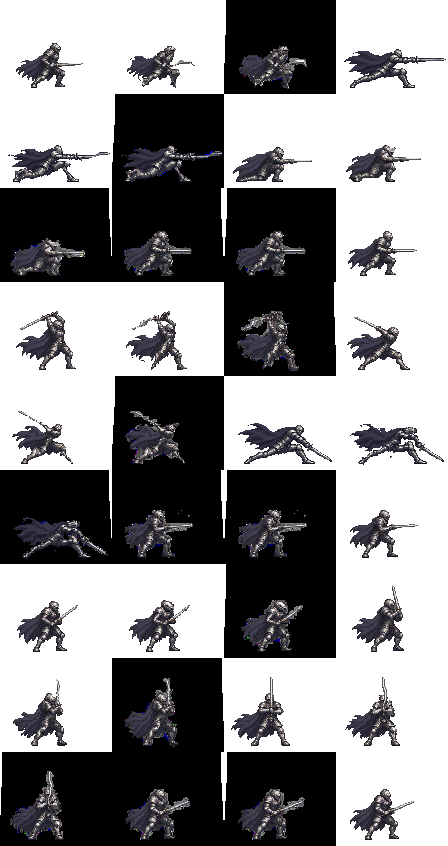
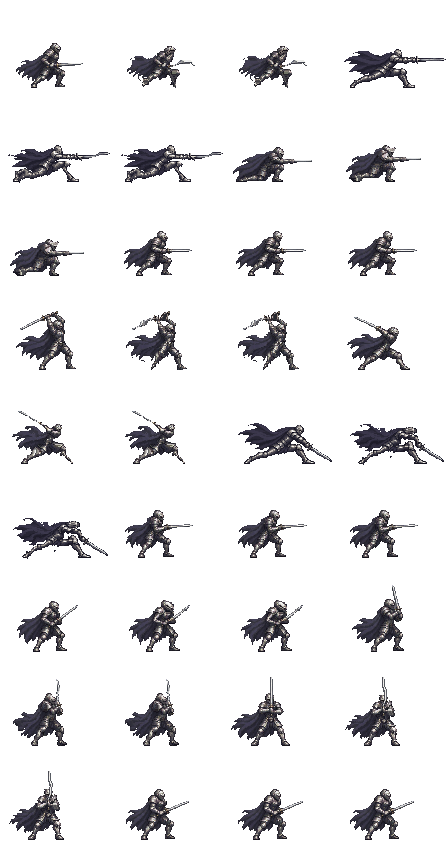
Restore transparent alpha in fifteen knight skill frames and block obsolete raster warp bake

diff --git a/Tools/bake_knight_skill_12.py b/Tools/bake_knight_skill_12.py
@@ -58,4 +58,9 @@ def bake():
     print("Wrote 448x846, 4 columns, 9 rows, 12 poses per skill:",OUT)
 
 if __name__=="__main__":
-    bake()
+    raise SystemExit(
+        "DEPRECATED by AGENTS.md: raster-warp skill generator is not an approved "
+        "hand-authored animation source. The 2026-11-06 alpha repair was applied "
+        "to the game PNG, but the motion poses still require individually drawn "
+        "pixel-level corrections. Do not auto-overwrite the asset."
+    )

diff --git a/Art/knight/skill/README.md b/Art/knight/skill/README.md
@@ -63,3 +63,27 @@ verify naturalness and must not be equated with game/device testing.
 update; this does not silently revert or fix it. No owner tests, local game build,
 APK build, or GitHub Actions have been executed. Owner device acceptance remains
 required.
+
+## 2026-11-06 alpha restoration (technical repair, not art approval)
+
+The 4×9 actor atlas previously contained fifteen opaque rectangular padding
+artifacts. The restored game PNG retains its **original RGB** and original
+pose order; the affected alpha planes were reconstructed against the existing
+original 4×6 hand-drawn source masks. The binary PNG is now 448×846 RGBA
+and the opaque-body-pixel counts across its 36 frames are within the source
+range (approximately 1,166–1,682 pixels per cell).
+
+Affected local pose numbers in each of the three skills were **3, 6, 9, 10,
+11**. The damaged previous 4×9 atlas is archived as
+`Art/knight/skill/rejected_opaque_4x9.png` for inspection. The alpha-only
+fix **does not** redraw limbs, sword, shoulders, cape or other anatomical
+in-betweens. Even after the alpha repair, the 12-pose sequences remain a
+procedural draft rather than AGENTS-approved hand-authored artwork; real-speed
+motion continuity and owner device QA remain **unverified**.
+
+The old `Tools/bake_knight_skill_12.py` entry point is disabled to prevent a
+future automatic regeneration from overwriting this repair. New replacement
+work must start with individually authored frames under `Art/`, visual
+review and approval, then pack to `Assets/` with the existing runtime timing.
+The actor PNG and independent `knight_skill_fx_layer.png` remain separate.
+No GitHub Actions, owner tests, APK builds or gameplay runtime tests were run.
